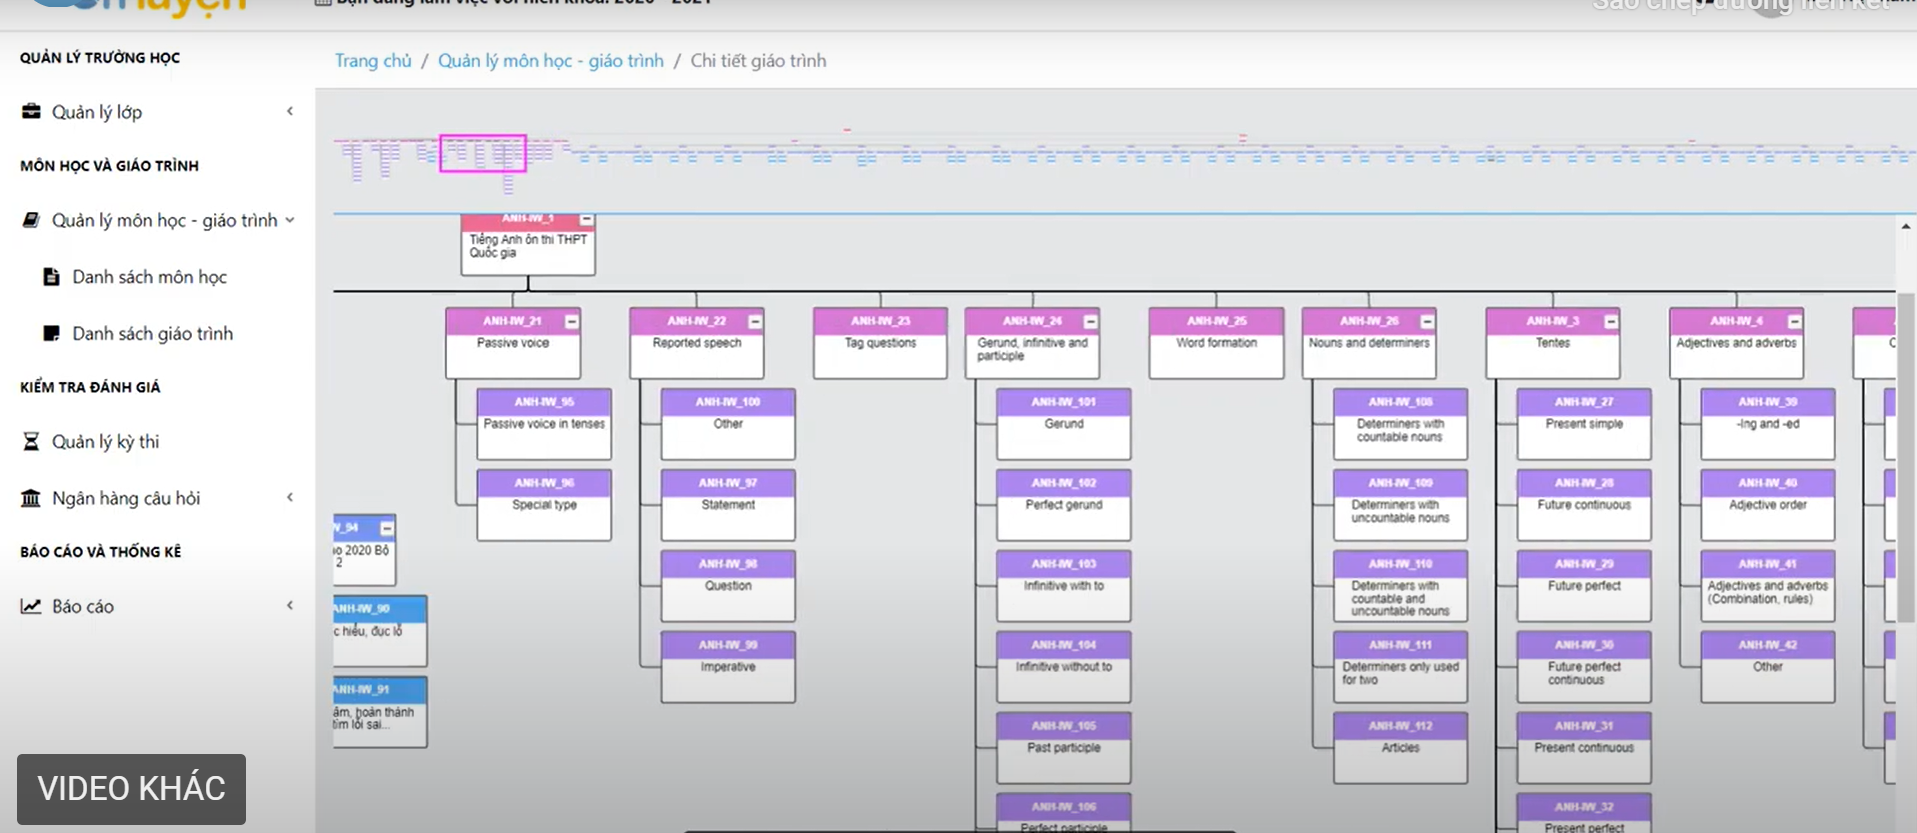
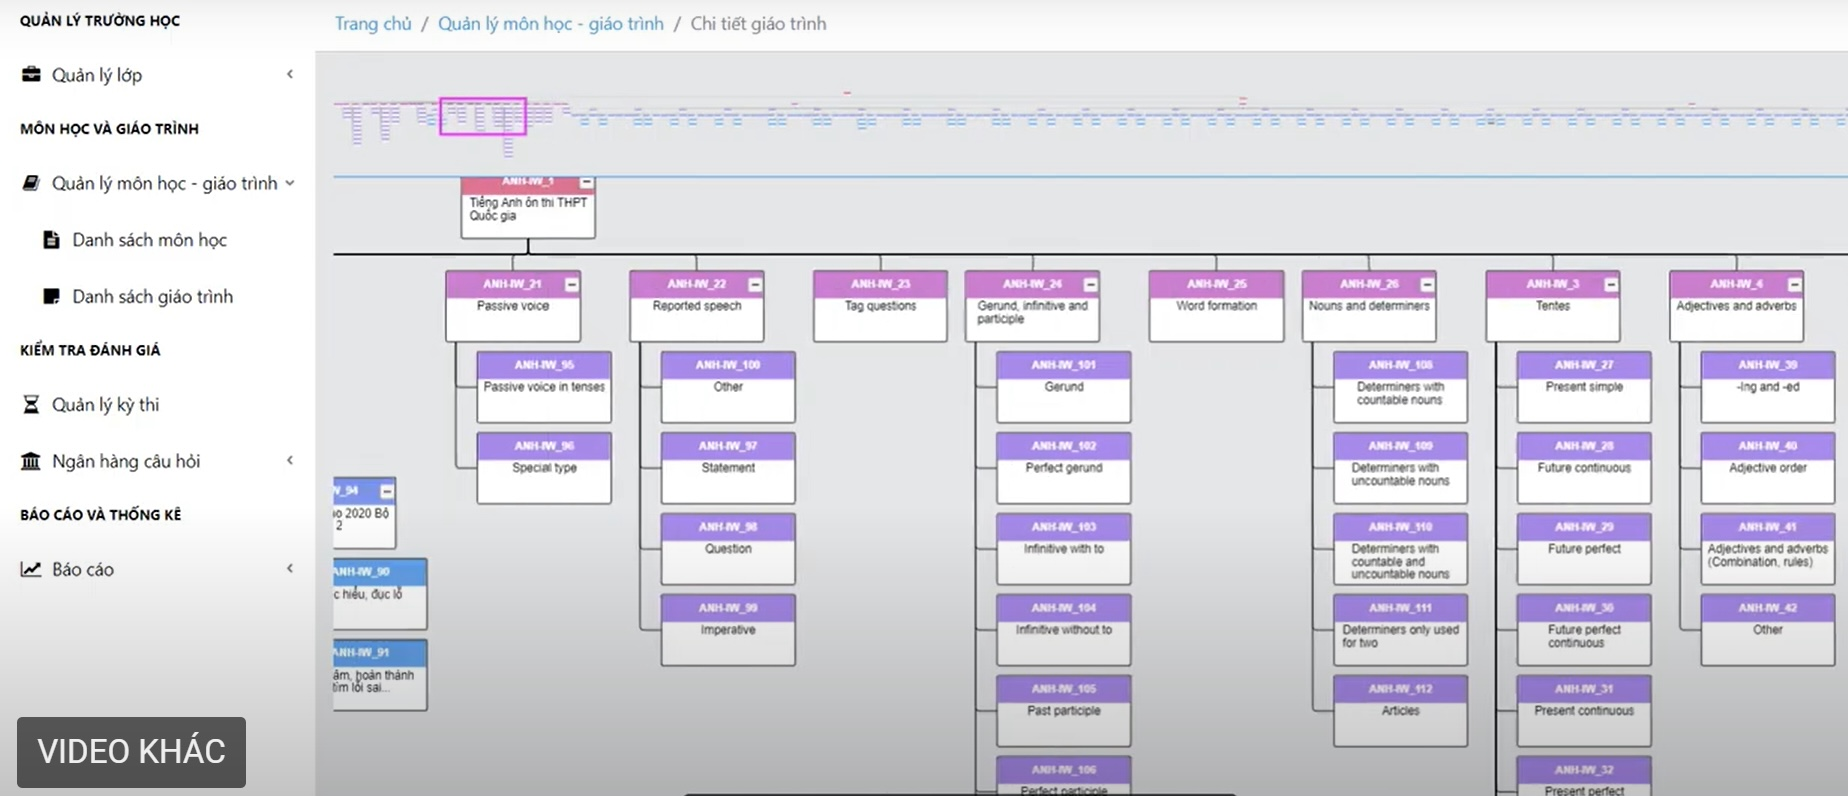
MBP-045: Minor changes feedback

diff --git a/src/views/ThirdFloor/School/EvaluateEducationalEffectiveness.vue b/src/views/ThirdFloor/School/EvaluateEducationalEffectiveness.vue
@@ -99,7 +99,7 @@ export default {
           type: "text",
           cssClass: "mt-4 mb-4 indent-8",
           content:
-            "Nhà trường không chỉ có khả năng quản lý học tập một cách hiệu quả mà còn tạo ra môi trường học tập tốt nhất cho học sinh. đáp ứng nhu cầu học tập đa dạng và giúp học sinh đạt được thành công trong học tập và phát triển toàn diện",
+            "Nhà trường không chỉ có khả năng quản lý học tập một cách hiệu quả mà còn tạo ra môi trường học tập tốt nhất cho học sinh. đáp ứng nhu cầu học tập đa dạng và giúp học sinh đạt được thành công trong học tập và phát triển toàn diện.",
         },
       ],
     };

diff --git a/src/views/ThirdFloor/Department/MonitorDTI.vue b/src/views/ThirdFloor/Department/MonitorDTI.vue
@@ -1,5 +1,5 @@
 <template>
-  <div class="p-4 flex justify-center items-center bg-[#021929] h-full">
+  <div class="p-4 flex justify-center items-center bg-[#021929]">
     <div class="mx-auto w-[70vw] text-white">
       <div class="p-6">
         <p class="text-2xl text-center font-bold">{{ title }}</p>
